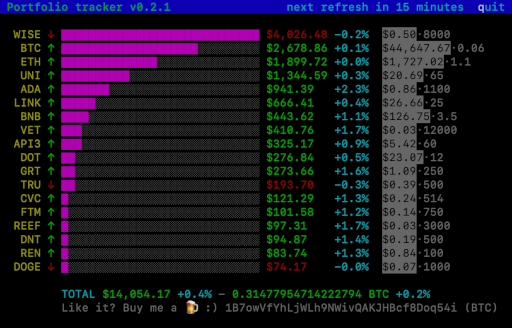
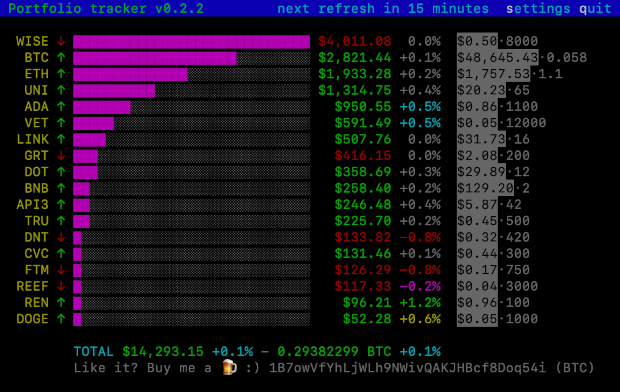
Minor refactor

diff --git a/index.js b/index.js
@@ -19,42 +19,55 @@ const blessed = require('blessed')
 const chalk = require('chalk')
 const CoinMarketCap = require('coinmarketcap-api')
 const dotenv = require('dotenv')
+const jsonfile = require('jsonfile')
 const { addMinutes, formatDistance } = require('date-fns')
 const { arrowDown, arrowUp } = require('figures')
 const { debounceTime, delay, repeat, retryWhen, switchMap, tap } = require('rxjs/operators')
 const { fromEvent, of } = require('rxjs')
 
-const portfolio = require('./portfolio.json')
-const { version } = require('./package.json')
-
 dotenv.config()
 
-const client = new CoinMarketCap(process.env.APIKEY)
-const isWindows = process.platform === 'win32'
-const screen = blessed.screen({ forceUnicode: true, fullUnicode: true, smartCSR: true })
-const symbols = Object.keys(portfolio)
-const maxSymbolLength = Math.max(...symbols.map(symbol => symbol.length))
-let last
-let previous = {}
+const store = {
+  client: new CoinMarketCap(process.env.APIKEY),
+  content: { display: { quotes: '', settings: '' }, header: '' },
+  currentMode: 'quotes',
+  isWindows: process.platform === 'win32',
+  last: {},
+  screen: blessed.screen({ forceUnicode: true, fullUnicode: true, smartCSR: true })
+}
 
 const appendDisplay = () => {
+  const { screen } = store
   const display = blessed.box({
     height: '100%',
     style: { bg: 'black' },
     width: '100%'
   })
   screen.append(display)
-  return getDraw(display)
+  store.display = display
 }
 
 const appendHeader = () => {
+  const { screen } = store
   const header = blessed.box({
     height: 'shrink',
     style: { bg: 'blue' },
     width: '100%'
   })
   screen.append(header)
-  return header
+  store.header = header
+}
+
+const calculateChange = (current, previous) => {
+  const change = Math.round(((current - previous) * 1000) / previous) / 10
+  return [change, `${change > 0 ? '+' : change === 0 ? ' ' : ''}${change.toFixed(1)}%`]
+}
+
+const draw = () => {
+  const { content, currentMode, display, header, screen } = store
+  display.setContent(content.display[currentMode])
+  header.setContent(content.header)
+  screen.render()
 }
 
 const formatMoney = number => {
@@ -65,10 +78,12 @@ const formatMoney = number => {
 }
 
 const getArrow = (symbol, value) => {
-  return Object.keys(previous).length ? (previous.values[symbol] > value ? chalk.red(arrowDown) : previous.values[symbol] < value ? chalk.green(arrowUp) : chalk.blue('=')) : chalk[isWindows ? 'white' : 'gray']('\u00B7')
+  const { isWindows, last } = store
+  return last.values ? (last.values[symbol] > value ? chalk.red(arrowDown) : last.values[symbol] < value ? chalk.green(arrowUp) : chalk.blue('=')) : chalk[isWindows ? 'white' : 'gray']('\u00B7')
 }
 
 const getBar = (maxValue, total, value) => {
+  const { isWindows } = store
   const bar = []
   const max = (maxValue * 100) / total
   let percentage = (value * 100) / total
@@ -78,98 +93,154 @@ const getBar = (maxValue, total, value) => {
   return bar.join('')
 }
 
-const getChange = (current, previous) => {
-  return `${current - previous > 0 ? '+' : ''}${(((current - previous) * 100) / previous).toFixed(1)}%`
+const getChange = (change, maxChangeLength, maxToMin) => {
+  const { isWindows } = store
+  return change ? `${chalk[getColorChange(change[0], maxToMin)](change[1].padEnd(maxChangeLength))} ` : chalk[isWindows ? 'white' : 'gray']('\u00B7')
 }
 
-const getColor = (symbol, value) => {
-  return Object.keys(previous).length ? (previous.values[symbol] > value ? 'red' : previous.values[symbol] < value ? 'green' : 'blue') : 'white'
+const getColorChange = (change, maxToMin) => {
+  const { isWindows } = store
+  if (change > 0) {
+    switch (maxToMin.filter(change => change > 0).indexOf(change)) {
+      case 0:
+        return 'green'
+      case 1:
+        return 'yellow'
+      case 2:
+        return 'cyan'
+    }
+  }
+  if (change < 0) {
+    switch (
+      maxToMin
+        .filter(change => change < 0)
+        .reverse()
+        .indexOf(change)
+    ) {
+      case 0:
+        return 'red'
+      case 1:
+        return 'magenta'
+      case 2:
+        return 'blue'
+    }
+  }
+  return isWindows ? 'white' : 'gray'
+}
+
+const getColorMoney = (symbol, value) => {
+  const { last } = store
+  return last.values ? (last.values[symbol] > value ? 'red' : last.values[symbol] < value ? 'green' : 'blue') : 'white'
 }
 
 const getColorTotal = total => {
-  return Object.keys(previous).length ? (previous.total > total ? 'red' : previous.total < total ? 'green' : 'blue') : 'white'
+  const { last } = store
+  return last.total ? (last.total > total ? 'red' : last.total < total ? 'green' : 'blue') : 'white'
 }
 
 const getColorTotalBTC = totalBTC => {
-  return Object.keys(previous).length ? (previous.totalBTC > totalBTC ? 'red' : previous.totalBTC < totalBTC ? 'green' : 'blue') : 'white'
+  const { last } = store
+  return last.totalBTC ? (last.totalBTC > totalBTC ? 'red' : last.totalBTC < totalBTC ? 'green' : 'blue') : 'white'
 }
 
-const getDraw = display => quotes => {
-  const values = Object.fromEntries(
-    Object.entries(
-      symbols.reduce((values, symbol) => {
-        values[symbol] = portfolio[symbol] * quotes[symbol]
-        return values
-      }, {})
-    ).sort((a, b) => b[1] - a[1])
-  )
-  const changes =
-    !!Object.keys(previous).length &&
-    symbols.reduce((changes, symbol) => {
-      changes[symbol] = getChange(values[symbol], previous.values[symbol])
-      return changes
-    }, {})
-  const maxChangeLength = changes && Math.max(...Object.values(changes).map(change => change.length))
-  const maxValue = Math.max(...Object.values(values))
-  const total = Object.values(values).reduce((total, value) => total + value, 0)
-  const totalBTC = total / quotes.BTC
-  display.setContent(
-    `\n\n${Object.keys(values)
-      .map(symbol => `  ${chalk.yellow(symbol.padStart(maxSymbolLength))} ${getArrow(symbol, values[symbol])} ${getBar(maxValue, total, values[symbol])} ${chalk[getColor(symbol, values[symbol])](formatMoney(values[symbol]).padEnd(formatMoney(maxValue).length))} ${changes ? `${chalk.cyan(changes[symbol].padEnd(maxChangeLength))} ` : ''} ${chalk[isWindows ? 'white' : 'gray'](`${chalk.inverse(formatMoney(quotes[symbol]))}\u00B7${portfolio[symbol]}`)}`)
-      .join('\n')}\n\n${``.padStart(maxSymbolLength + 5)}${chalk.cyan('TOTAL')} ${chalk[getColorTotal(total)](formatMoney(total))}${previous.total ? ` ${chalk.cyan(getChange(total, previous.total))}` : ''} ${chalk[isWindows ? 'yellow' : 'gray']('-')} ${chalk[getColorTotalBTC(totalBTC)](`${totalBTC} BTC`)}${previous.totalBTC ? ` ${chalk.cyan(getChange(totalBTC, previous.totalBTC))}` : ''}\n${``.padStart(maxSymbolLength + 5)}${chalk[isWindows ? 'yellow' : 'gray'](`Like it? Buy me a ${isWindows ? 'beer' : '🍺'} :) 1B7owVfYhLjWLh9NWivQAKJHBcf8Doq54i (BTC)`)}`
-  )
-  last = Date.now()
-  previous = { total, totalBTC, values }
-  screen.render()
+const getQuotes = async symbols => {
+  const { client } = store
+  const symbolsIncludingBTC = symbols.includes('BTC') ? symbols : ['BTC', ...symbols]
+  const { data } = await client.getQuotes({ symbol: symbolsIncludingBTC })
+  return symbolsIncludingBTC.reduce((quotes, symbol) => {
+    quotes[symbol] = data[symbol].quote.USD.price
+    return quotes
+  }, {})
 }
 
-const start = () => {
+const start = async () => {
+  const { isWindows, screen } = store
+  const { version } = await jsonfile.readFile('./package.json')
+  const portfolio = await jsonfile.readFile('./portfolio.json')
+  const symbols = Object.keys(portfolio)
+  const maxSymbolLength = Math.max(...symbols.map(symbol => symbol.length))
   const title = `Portfolio tracker v${version}`
-  screen.title = title
-  const draw = appendDisplay()
-  const header = appendHeader()
-  const headerContent = screenWidth => ` ${chalk.green(title)}${`${last ? `${chalk.cyan(`next refresh ${formatDistance(addMinutes(last, process.env.DELAY), Date.now(), { addSuffix: true, includeSeconds: true })}`)}` : ''}  ${chalk.white('q')}${chalk.cyan('uit')}`.padStart(screenWidth + (last ? 4 : -6))}`
-  fromEvent(screen, 'resize')
-    .pipe(debounceTime(10))
-    .subscribe(() => {
-      header.setContent(headerContent(screen.width))
-      screen.render()
-    })
+  const headerContent = screenWidth => ` ${chalk.green(title)}${`${store.currentMode === 'quotes' && store.last.time ? `${chalk.cyan(`next refresh ${formatDistance(addMinutes(store.last.time, process.env.DELAY), Date.now(), { addSuffix: true, includeSeconds: true })}`)}` : ''}  ${chalk.white('s')}${chalk.cyan(store.currentMode === 'quotes' ? 'ettings' : 'ave')} ${chalk.white('q')}${chalk.cyan('uit')}`.padStart(screenWidth + (store.currentMode === 'quotes' && store.last.time ? 24 : 14))}`
+  appendDisplay()
+  appendHeader()
   screen.key('q', () => process.exit())
-  screen.render()
+  screen.key('s', () => {
+    store.currentMode = store.currentMode === 'quotes' ? 'settings' : 'quotes'
+    store.content.header = headerContent(screen.width)
+    draw()
+  })
+  screen.title = title
+  store.content.header = headerContent(screen.width)
+  store.content.display.settings = `\n\n${symbols.map(symbol => `  ${chalk.yellow(symbol.padStart(maxSymbolLength))} ${chalk[isWindows ? 'white' : 'gray'](portfolio[symbol])}`).join('\n')}`
+  draw()
+  fromEvent(screen, 'resize')
+    .pipe(debounceTime(50))
+    .subscribe(() => {
+      if (store.currentMode === 'quotes') {
+        store.content.header = headerContent(screen.width)
+        draw()
+      }
+    })
   of({})
     .pipe(
-      delay(5000),
-      tap(() => {
-        header.setContent(headerContent(screen.width))
-        screen.render()
-      }),
-      repeat()
-    )
-    .subscribe()
-  of({})
-    .pipe(
-      switchMap(() => updateQuotes()),
-      retryWhen(errors => errors.pipe(delay(1000 * 60 * process.env.DELAY))),
-      tap(draw),
-      tap(() => {
-        header.setContent(headerContent(screen.width))
-        screen.render()
+      switchMap(() => getQuotes(symbols)),
+      retryWhen(errors =>
+        errors.pipe(
+          tap(() => {
+            store.last = { time: Date.now() }
+          }),
+          delay(1000 * 60 * process.env.DELAY)
+        )
+      ),
+      tap(quotes => {
+        const values = Object.fromEntries(
+          Object.entries(
+            symbols.reduce((values, symbol) => {
+              values[symbol] = portfolio[symbol] * quotes[symbol]
+              return values
+            }, {})
+          ).sort((a, b) => b[1] - a[1])
+        )
+        const changes =
+          !!store.last.values &&
+          symbols.reduce((changes, symbol) => {
+            changes[symbol] = calculateChange(values[symbol], store.last.values[symbol])
+            return changes
+          }, {})
+        const maxChangeLength = changes && Math.max(...Object.values(changes).map(change => change[1].length))
+        const maxToMin = [
+          ...new Set(
+            Object.values(changes)
+              .map(change => change[0])
+              .sort((a, b) => b - a)
+          )
+        ]
+        const maxValue = Math.max(...Object.values(values))
+        const total = Object.values(values).reduce((total, value) => total + value, 0)
+        const totalBTC = Math.round((total * 100000000) / quotes.BTC) / 100000000
+        store.content.display.quotes = `\n\n${Object.keys(values)
+          .map(symbol => `  ${chalk.yellow(symbol.padStart(maxSymbolLength))} ${getArrow(symbol, values[symbol])} ${getBar(maxValue, total, values[symbol])} ${chalk[getColorMoney(symbol, values[symbol])](formatMoney(values[symbol]).padStart(formatMoney(maxValue).length))} ${getChange(changes[symbol], maxChangeLength, maxToMin)} ${chalk[isWindows ? 'white' : 'gray'](`${chalk.inverse(formatMoney(quotes[symbol]))}\u00B7${portfolio[symbol]}`)}`)
+          .join('\n')}\n\n${``.padStart(maxSymbolLength + 5)}${chalk.cyan('TOTAL')} ${chalk[getColorTotal(total)](formatMoney(total))}${store.last.total ? ` ${chalk.cyan(calculateChange(total, store.last.total)[1])}` : ''} ${chalk[isWindows ? 'yellow' : 'gray']('-')} ${chalk[getColorTotalBTC(totalBTC)](`${totalBTC} BTC`)}${store.last.totalBTC ? ` ${chalk.cyan(calculateChange(totalBTC, store.last.totalBTC)[1])}` : ''}\n${``.padStart(maxSymbolLength + 5)}${chalk[isWindows ? 'yellow' : 'gray'](`Like it? Buy me a ${isWindows ? 'beer' : '🍺'} :) 1B7owVfYhLjWLh9NWivQAKJHBcf8Doq54i (BTC) `)}`
+        store.last = { time: Date.now(), total, totalBTC, values }
+        store.content.header = headerContent(screen.width)
+        draw()
       }),
       delay(1000 * 60 * process.env.DELAY),
       repeat()
     )
     .subscribe()
-}
-
-const updateQuotes = async () => {
-  const symbolsIncludingBTC = symbols.includes('BTC') ? symbols : ['BTC', ...symbols]
-  const { data } = await client.getQuotes({ symbol: symbolsIncludingBTC })
-  const quotes = symbolsIncludingBTC.reduce((quotes, symbol) => {
-    quotes[symbol] = data[symbol].quote.USD.price
-    return quotes
-  }, {})
-  return quotes
+  of({})
+    .pipe(
+      delay(5000),
+      tap(() => {
+        if (store.currentMode === 'quotes') {
+          store.content.header = headerContent(screen.width)
+          draw()
+        }
+      }),
+      repeat()
+    )
+    .subscribe()
 }
 
 start()

diff --git a/README.md b/README.md
@@ -2,7 +2,7 @@
 
 Crypto portfolio tracker.
 
-<img height="328" src="tracker.png?raw=true" width="512">
+<img height="392" src="tracker.png?raw=true" width="620">
 
 ### Requires
 
